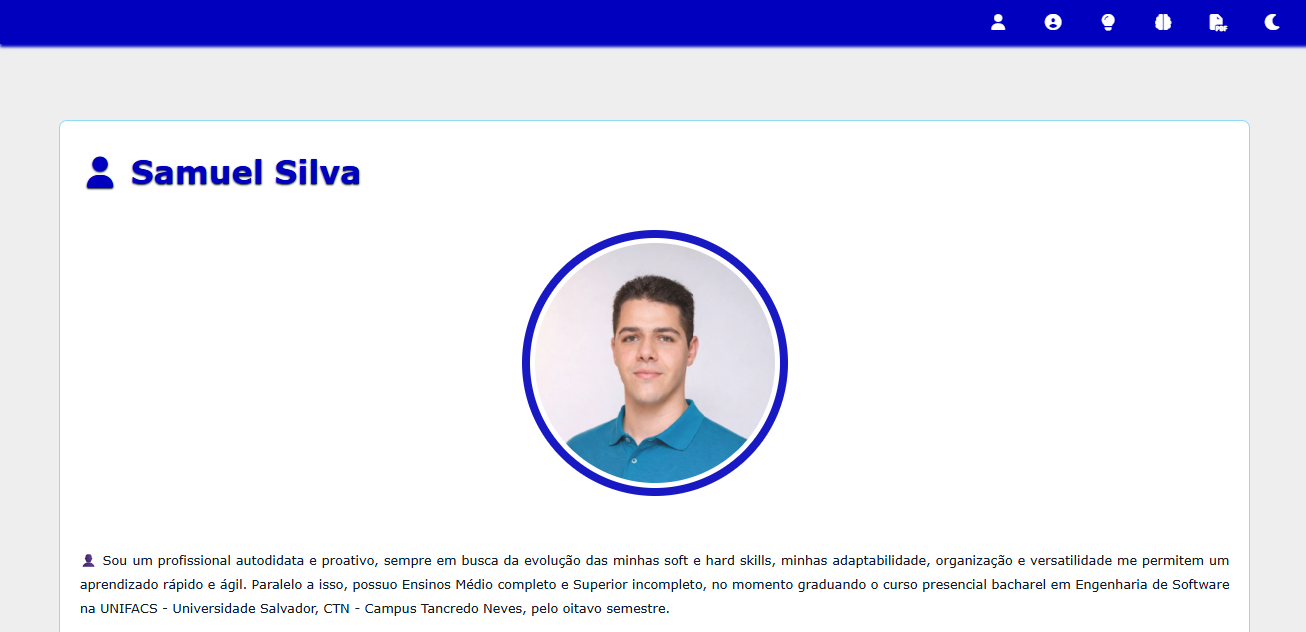
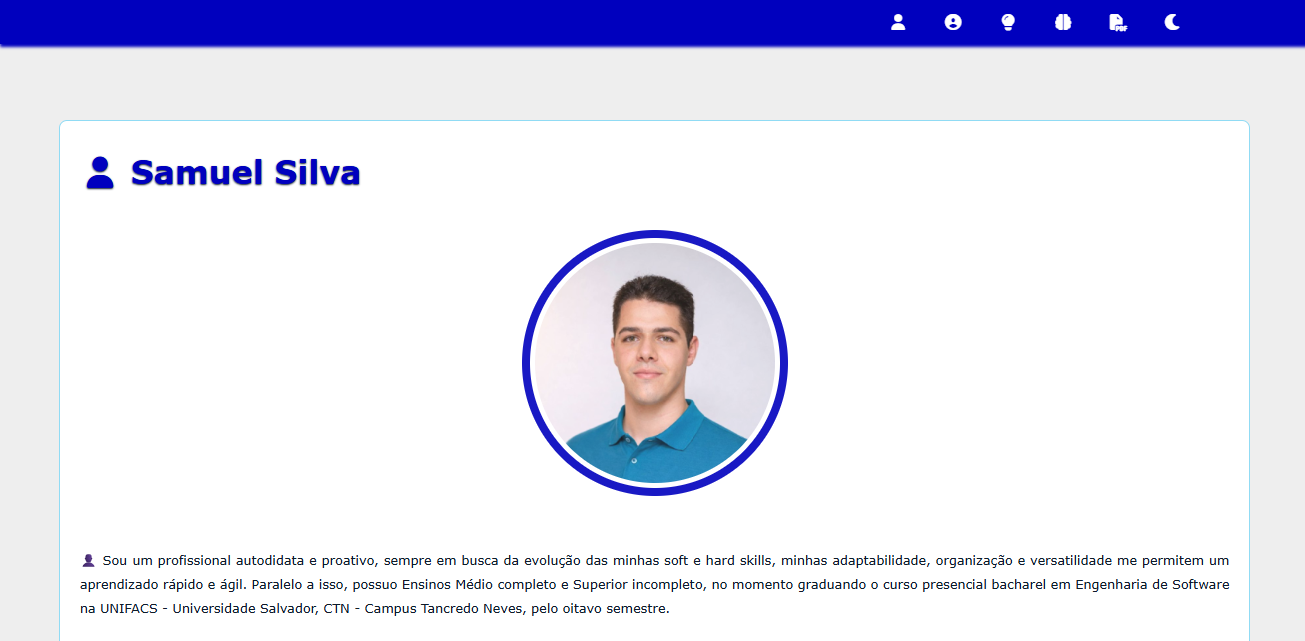
Teste

diff --git a/home.html b/home.html
@@ -119,7 +119,7 @@
                                 <p class="periodo">
                                     2026
                                 </p>
-                                <a href="https://github.com/S4mu3l-Silv4/projeto-automatizacoes-vba" target="_blank" rel="noopener noreferrer">
+                                <a href="https://github.com/S4mu3l-Silv4/projeto-automacoes-vba" target="_blank" rel="noopener noreferrer">
                                     <h3 class="titulo-projeto">
                                         Projeto automações com VBA:
                                     </h3>
